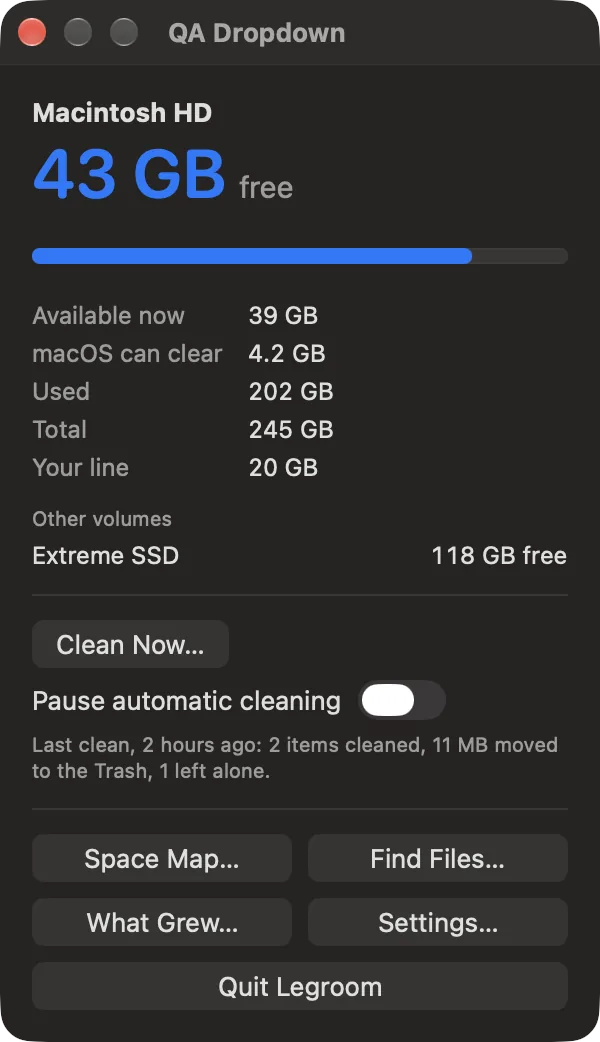
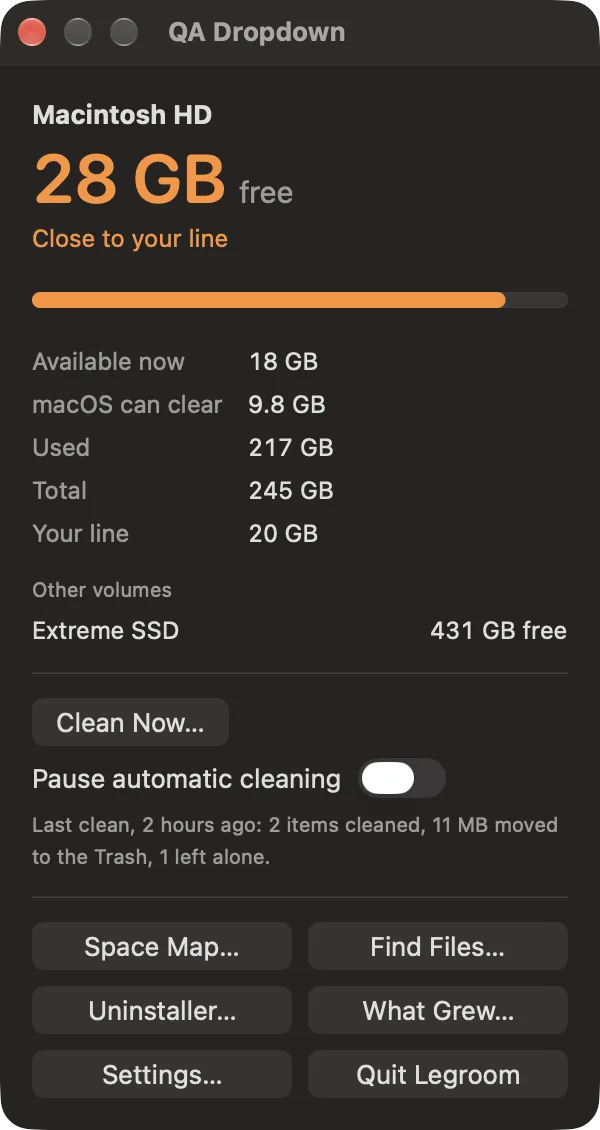
Legroom page: Uninstaller screenshots (Apps tab, Move to Trash sheet, Left by deleted apps) and a refreshed menu-bar dropdown
Sample-data captures from the app's QA mode. The dropdown now shows the Uninstaller button; its alt text and caption describe it as captured (the disk figures are read from the capture Mac, not invented).

diff --git a/site/legroom/index.html b/site/legroom/index.html
@@ -27,7 +27,7 @@
     <link rel="stylesheet" href="/styles.css?v=cf35a6634a">
     <link rel="stylesheet" href="/motion.css?v=49cb63589a">
     <link rel="stylesheet" href="/buy.css?v=b1216dd259">
-    <link rel="stylesheet" href="/legroom/legroom.css?v=11fab66af8">
+    <link rel="stylesheet" href="/legroom/legroom.css?v=2b61b15abd">
     <script src="/site.js?v=95cfec31bc" defer></script>
     <script src="/trial-reminder.js?v=d43def6c9f" defer></script>
     <script src="/motion.js?v=0c540c5924" defer></script>
@@ -204,9 +204,9 @@
       </div>
       <figure class="app-hero-window lg-hero-window">
         <div class="frame-soft">
-          <img src="/legroom/img/menu-bar-dropdown.webp" alt="Legroom's menu-bar window on a sample Mac: 43 GB free, a bar for used space, figures for space available now, space macOS can clear, used and total space, and a low-space line of 20 GB, then a Clean Now button, a switch to pause automatic cleaning, and buttons for Space Map, Find Files, What Grew and Settings" width="600" height="1042" fetchpriority="high" decoding="async">
+          <img src="/legroom/img/menu-bar-dropdown.webp" alt="Legroom's menu-bar window: the startup disk with 28 GB free in orange and the words Close to your line, a bar for used space, figures for space available now, space macOS can clear, used and total space, and a low-space line of 20 GB, one other volume with 431 GB free, then a Clean Now button, a switch to pause automatic cleaning, a line about the last clean, and buttons for Space Map, Find Files, Uninstaller, What Grew, Settings and Quit Legroom" width="600" height="1130" fetchpriority="high" decoding="async">
         </div>
-        <figcaption>Sample data: a pretend home folder and invented numbers. The window title comes from the test build.</figcaption>
+        <figcaption>Sample data for the last clean. The disk figures are read from the Mac it was captured on. The window title comes from the test build.</figcaption>
       </figure>
     </div>
 
@@ -310,6 +310,45 @@
             <img src="/legroom/img/find-files.webp" alt="The Find Files window on its Large tab, listing seven sample files of 10 MB or more with their size, date changed and folder, and Reveal in Finder and Move Selected to Trash buttons" width="1200" height="1109" loading="lazy" decoding="async">
           </div>
           <figcaption>Sample data.</figcaption>
+        </figure>
+      </div>
+
+      <div class="screenshot-block">
+        <div class="screenshot-callout" data-motion="reveal">
+          <h3>Uninstaller: what an app left behind</h3>
+          <p>Choose an app and Look for Leftovers lists the files it keeps in your Library folder, each with its size, when it last changed and how its name matches the app. Items named exactly for the app start ticked. Folders that are only named like the app are never ticked for you.</p>
+        </div>
+        <figure class="lg-shot">
+          <div class="frame-soft">
+            <img src="/legroom/img/uninstaller-apps.webp" alt="The Uninstaller window on its Apps tab, with five sample apps listed and Example Sketchbook selected. Its leftovers are listed: a folder in Application Support named like the app and not ticked, then three items marked Named for the app and ticked, in Application Support, Caches and Preferences, each with a size and a last-changed date. Below them are notes that Containers, Group Containers and Cookies were not opened without Full Disk Access, an unticked Also move the app to the Trash checkbox, a line reading 3 items selected, 103 MB, and a Move to Trash button" width="1200" height="960" loading="lazy" decoding="async">
+          </div>
+          <figcaption>Sample data: invented apps and files in a pretend home folder. Full Disk Access is off in this capture, so protected folders are skipped. The sample files were all written when this was captured, so they share one date.</figcaption>
+        </figure>
+      </div>
+
+      <div class="screenshot-block">
+        <div class="screenshot-callout" data-motion="reveal">
+          <h3>A sheet that measures everything again</h3>
+          <p>Move to Trash opens a sheet that measures each item again, lists any it left out with the reason, and moves only what still matches. Everything goes to the Trash and can be put back from there until the Trash is emptied.</p>
+        </div>
+        <figure class="lg-shot lg-shot-sheet">
+          <div class="frame-soft">
+            <img src="/legroom/img/uninstaller-confirm.webp" alt="A sheet titled Move leftovers of Example Sketchbook to the Trash, reading 3 items, 103 MB, measured now, with text saying the items go to the Trash and are checked again just before they move, a list of the three items with sizes and last-changed dates, and Cancel and Move to Trash buttons" width="1120" height="926" loading="lazy" decoding="async">
+          </div>
+          <figcaption>Sample data.</figcaption>
+        </figure>
+      </div>
+
+      <div class="screenshot-block">
+        <div class="screenshot-callout" data-motion="reveal">
+          <h3>Support files of apps that are gone</h3>
+          <p>The Left by deleted apps tab lists support files named for apps that are not installed. Nothing in it is ticked. An app on a disk that is not connected looks like a deleted app, so connect your disks first.</p>
+        </div>
+        <figure class="lg-shot">
+          <div class="frame-soft">
+            <img src="/legroom/img/uninstaller-deleted.webp" alt="The Uninstaller window on its Left by deleted apps tab after a look, listing three sample identifiers, each with two items showing a size, file count and last-changed date, and none ticked. Under the list is a note that Cookies was not opened without Full Disk Access, and the footer reads 0 items selected, 0 MB" width="1200" height="960" loading="lazy" decoding="async">
+          </div>
+          <figcaption>Sample data: three invented apps that are not installed.</figcaption>
         </figure>
       </div>
     </section>

diff --git a/site/legroom/legroom.css b/site/legroom/legroom.css
@@ -11,6 +11,8 @@
   max-width: 1000px;
 }
 .lg-shot .frame-soft { max-width: 100%; }
+/* The Move to Trash sheet is 560 points wide against 940 for the window: shown at 600 so its text matches the window shots. */
+.lg-shot-sheet { max-width: 600px; }
 .lg-shot figcaption {
   margin-top: 10px;
   font-size: 0.85rem;
